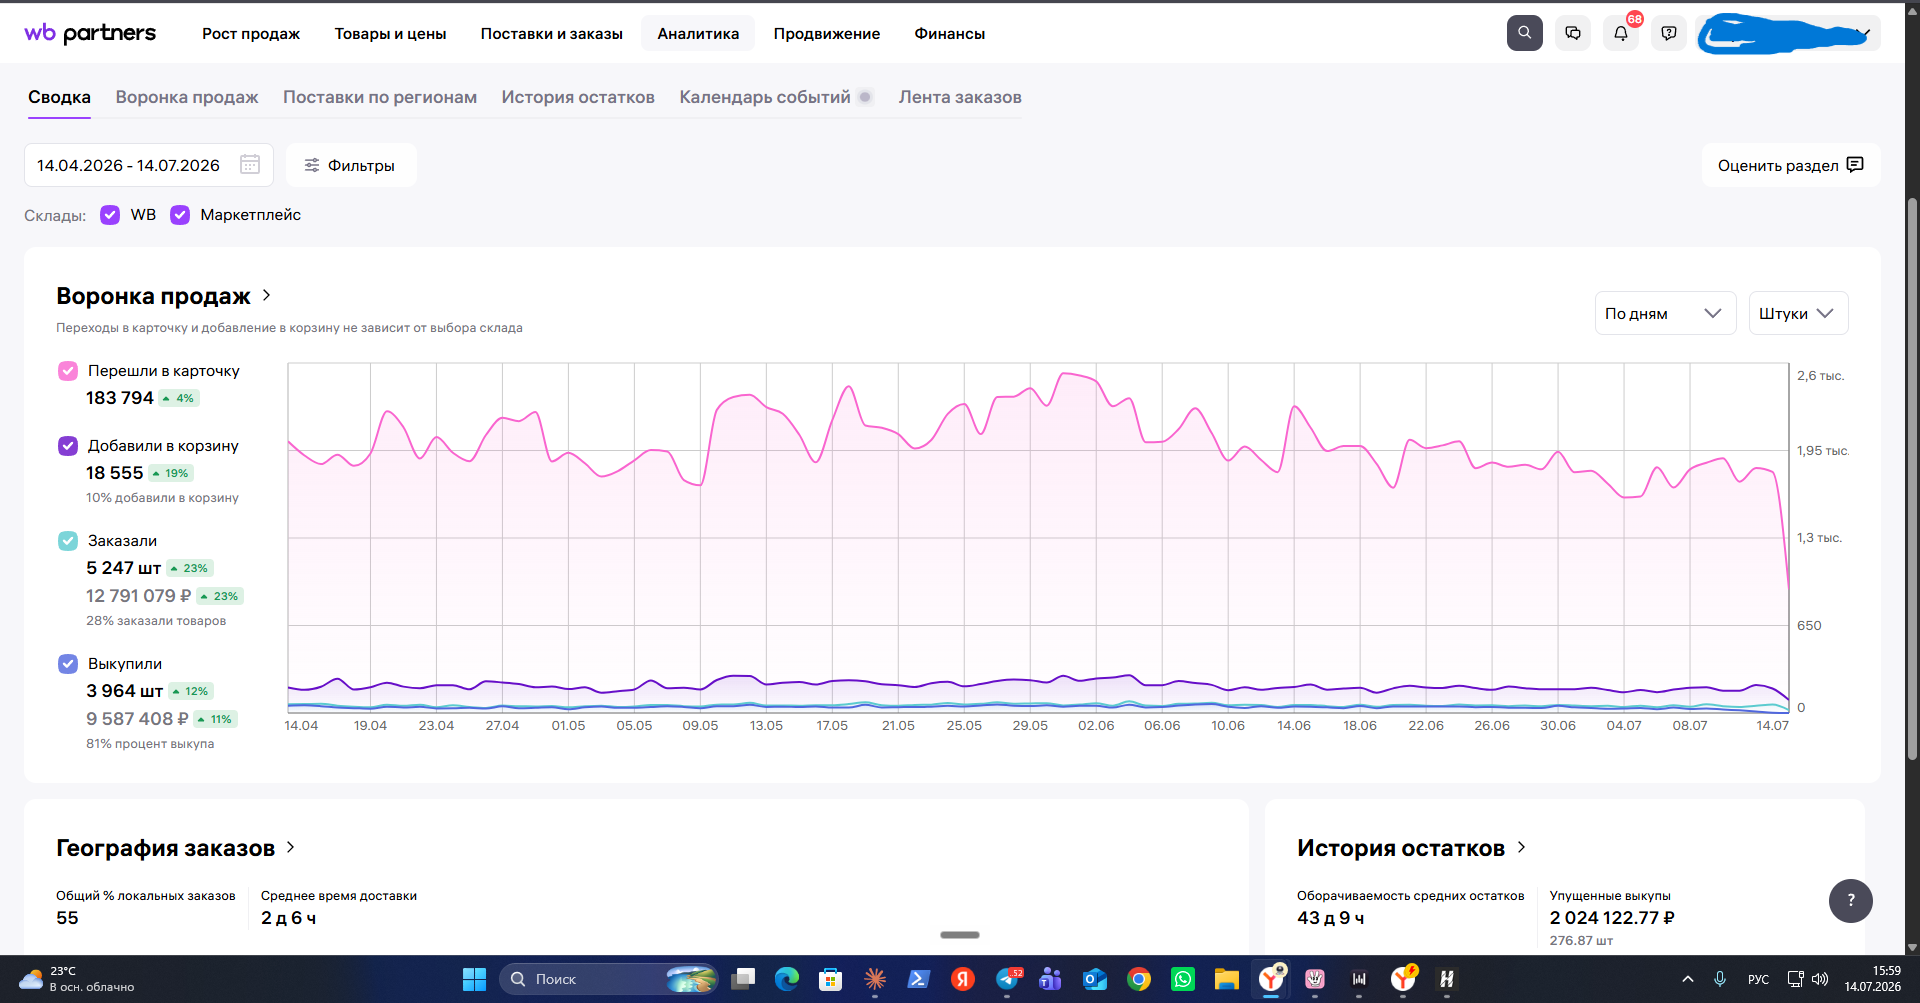
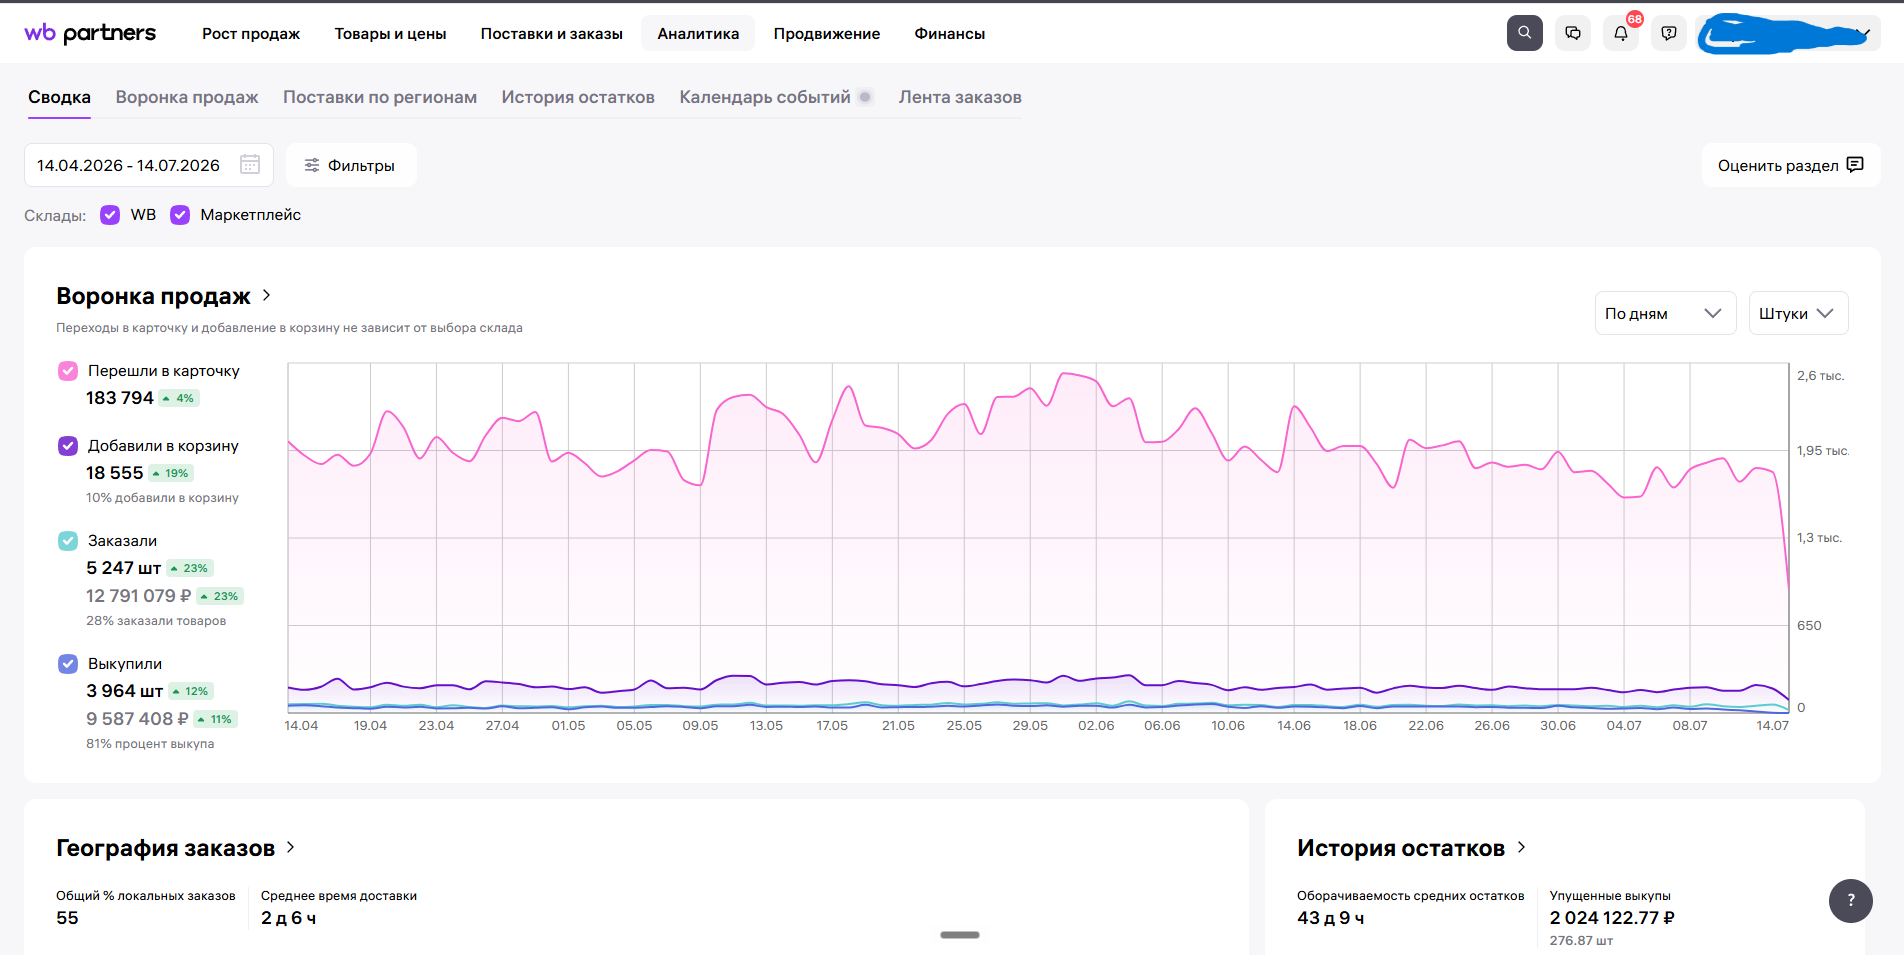
Обрезать скриншоты кейсов до чистого кабинета
У всех 7 изображений убраны адресная строка и закладки браузера
сверху, панель задач снизу, полоса прокрутки справа и служебные
баннеры (юр. уведомление WB, промо-баннер Ozon). Границы обрезки
индивидуальные для каждого файла. Вес папки: 2,4 МБ -> 1,3 МБ.

diff --git a/CHANGELOG.md b/CHANGELOG.md
@@ -6,6 +6,10 @@
 
 ## 2026-08-07
 
+### PR #9 — Обрезка скриншотов кейсов до чистого кабинета
+Все 7 скриншотов в `assets/cases/` обрезаны: убраны адресная строка/закладки браузера сверху, панель задач Windows снизу, полоса прокрутки справа и служебные баннеры (юр. уведомление WB, промо Ozon). Границы у каждого файла свои. Вес папки сократился с 2,4 до 1,3 МБ.
+Файлы: `assets/cases/*.png`
+
 ### PR #8 — Слайд-шоу кейсов со скриншотами кабинетов
 После секции «Примеры отчётности» добавлена секция `#case-gallery`: слайдер на 7 кейсов-скриншотов из личных кабинетов WB/Ozon (товары для дома ВБ — 2 года с нуля; обувь Ozon — 3 мес со старта 1 млн; косметика ВБ — 3 мес; продукты Ozon — 3 мес со старта 1,5 млн; товары для дома Ozon — 6 мес с 500 т.р.; мебель Ozon — 1,5 мес; автотовары ВБ — с нуля). Листается свайпом (scroll-snap) и стрелками, счётчик «N / 7», стрелки блокируются на краях, клик по слайду открывает полноразмерный скриншот. Изображения в `assets/cases/*.png` (~2,4 МБ, lazy loading). Существующая секция `#cases` переведена с серого на белый фон для чередования.
 Файлы: `index.html`, `assets/app.js`, `assets/styles.css`, `assets/cases/` (7 PNG)
